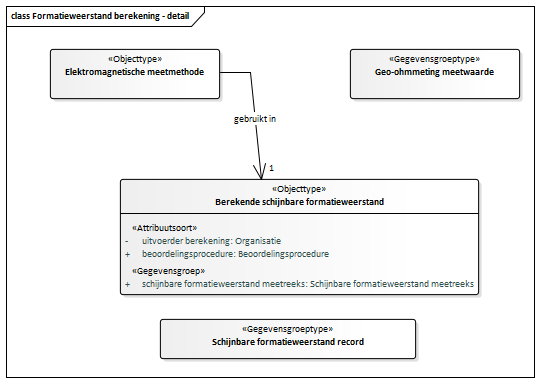
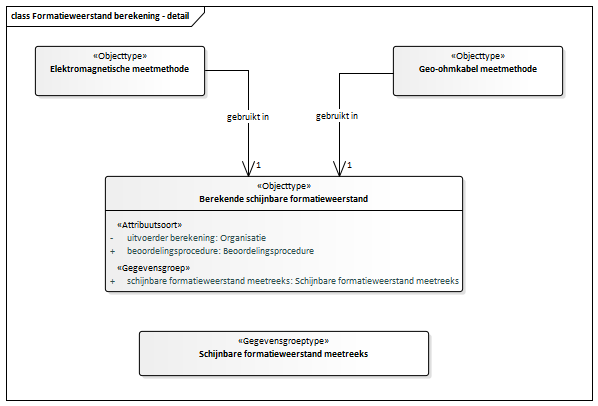
Conceptualmodel-FormatieweerstandonderzoekFRDconceptueel-0.92-3-20210125-20210202-133840

diff --git a/data/FRD-cat.msword.html b/data/FRD-cat.msword.html
@@ -15,7 +15,7 @@
    <body>
       <p>Conceptual model/Formatieweerstand onderzoek (FRD) conceptueel/20210125</p>
       <p>Imvertor: 1.63.0</p>
-      <p>Model release: Conceptualmodel-FormatieweerstandonderzoekFRDconceptueel-0.92-3-20210125-20210202-114734</p>
+      <p>Model release: Conceptualmodel-FormatieweerstandonderzoekFRDconceptueel-0.92-3-20210125-20210202-133840</p>
       <hr>
       <section>
          <h1>Artikel 1 Definitie van registratieobject, entiteiten en attributen</h1>
@@ -3606,7 +3606,7 @@
                      </section>
                </section><a class="anchor" id="graph_EAID_6F6C1FC0_77AE_4d31_8862_B7B443C2D0C8"></a><a class="anchor" id="global_class_Model_Berekendeschijnbareformatieweerstand"></a><section id="global_class_Model_Berekendeschijnbareformatieweerstand">
                   <h3>   Berekende schijnbare formatieweerstand</h3>
-                  <div class="imageinfo "><img src="Images/EAID_6F7E56BD_A296_4a81_A649_49B4F706C986.png" usemap="#imagemap-EAID_6F7E56BD_A296_4a81_A649_49B4F706C986" alt="Diagram "><map name="imagemap-EAID_6F7E56BD_A296_4a81_A649_49B4F706C986"><area shape="rect" alt="Elektromagnetische meetmethode" coords="50,49,220,99" href="#graph_EAID_CA2EEC38_0161_4d1b_968C_E63B2F5C1547"><area shape="rect" alt="Geo-ohmmeting meetwaarde" coords="350,49,520,99" href="#graph_EAID_0E73504D_4081_4ea3_A7AA_1FB27FBC227B"><area shape="rect" alt="Schijnbare formatieweerstand record" coords="160,319,416,359" href="#graph_EAID_1C615D07_2360_4c93_8371_F9173FA1C85B"><area shape="rect" alt="Berekende schijnbare formatieweerstand" coords="120,179,479,295" href="#graph_EAID_6F6C1FC0_77AE_4d31_8862_B7B443C2D0C8"></map><p><b></b></p>
+                  <div class="imageinfo "><img src="Images/EAID_6F7E56BD_A296_4a81_A649_49B4F706C986.png" usemap="#imagemap-EAID_6F7E56BD_A296_4a81_A649_49B4F706C986" alt="Diagram "><map name="imagemap-EAID_6F7E56BD_A296_4a81_A649_49B4F706C986"><area shape="rect" alt="Geo-ohmkabel meetmethode" coords="393,46,563,96" href="#graph_EAID_DB9DF92C_83D8_4d54_8B6A_6693052EF4B1"><area shape="rect" alt="Schijnbare formatieweerstand meetreeks" coords="139,331,429,376" href="#graph_EAID_33E9A76E_D488_4fe2_B0B5_61067BBBFE2D"><area shape="rect" alt="Elektromagnetische meetmethode" coords="35,46,205,96" href="#graph_EAID_CA2EEC38_0161_4d1b_968C_E63B2F5C1547"><area shape="rect" alt="Berekende schijnbare formatieweerstand" coords="105,176,463,292" href="#graph_EAID_6F6C1FC0_77AE_4d31_8862_B7B443C2D0C8"></map><p><b></b></p>
                   </div>
                   <table style="width: 100%;">
                      <colgroup style="width: 30%;"></colgroup>

diff --git a/data/FRD-cat.respec.html b/data/FRD-cat.respec.html
@@ -3582,7 +3582,7 @@
             </section>
       </section><a class="anchor" id="graph_EAID_6F6C1FC0_77AE_4d31_8862_B7B443C2D0C8"></a><a class="anchor" id="global_class_Model_Berekendeschijnbareformatieweerstand"></a><section id="global_class_Model_Berekendeschijnbareformatieweerstand">
          <h3>   Berekende schijnbare formatieweerstand</h3>
-         <div class="imageinfo "><img src="data/Images/EAID_6F7E56BD_A296_4a81_A649_49B4F706C986.png" usemap="#imagemap-EAID_6F7E56BD_A296_4a81_A649_49B4F706C986" alt="Diagram "><map name="imagemap-EAID_6F7E56BD_A296_4a81_A649_49B4F706C986"><area shape="rect" alt="Elektromagnetische meetmethode" coords="50,49,220,99" href="#graph_EAID_CA2EEC38_0161_4d1b_968C_E63B2F5C1547"><area shape="rect" alt="Geo-ohmmeting meetwaarde" coords="350,49,520,99" href="#graph_EAID_0E73504D_4081_4ea3_A7AA_1FB27FBC227B"><area shape="rect" alt="Schijnbare formatieweerstand record" coords="160,319,416,359" href="#graph_EAID_1C615D07_2360_4c93_8371_F9173FA1C85B"><area shape="rect" alt="Berekende schijnbare formatieweerstand" coords="120,179,479,295" href="#graph_EAID_6F6C1FC0_77AE_4d31_8862_B7B443C2D0C8"></map><p><b></b></p>
+         <div class="imageinfo "><img src="data/Images/EAID_6F7E56BD_A296_4a81_A649_49B4F706C986.png" usemap="#imagemap-EAID_6F7E56BD_A296_4a81_A649_49B4F706C986" alt="Diagram "><map name="imagemap-EAID_6F7E56BD_A296_4a81_A649_49B4F706C986"><area shape="rect" alt="Geo-ohmkabel meetmethode" coords="393,46,563,96" href="#graph_EAID_DB9DF92C_83D8_4d54_8B6A_6693052EF4B1"><area shape="rect" alt="Schijnbare formatieweerstand meetreeks" coords="139,331,429,376" href="#graph_EAID_33E9A76E_D488_4fe2_B0B5_61067BBBFE2D"><area shape="rect" alt="Elektromagnetische meetmethode" coords="35,46,205,96" href="#graph_EAID_CA2EEC38_0161_4d1b_968C_E63B2F5C1547"><area shape="rect" alt="Berekende schijnbare formatieweerstand" coords="105,176,463,292" href="#graph_EAID_6F6C1FC0_77AE_4d31_8862_B7B443C2D0C8"></map><p><b></b></p>
          </div>
          <table style="width: 100%;">
             <colgroup style="width: 30%;"></colgroup>
